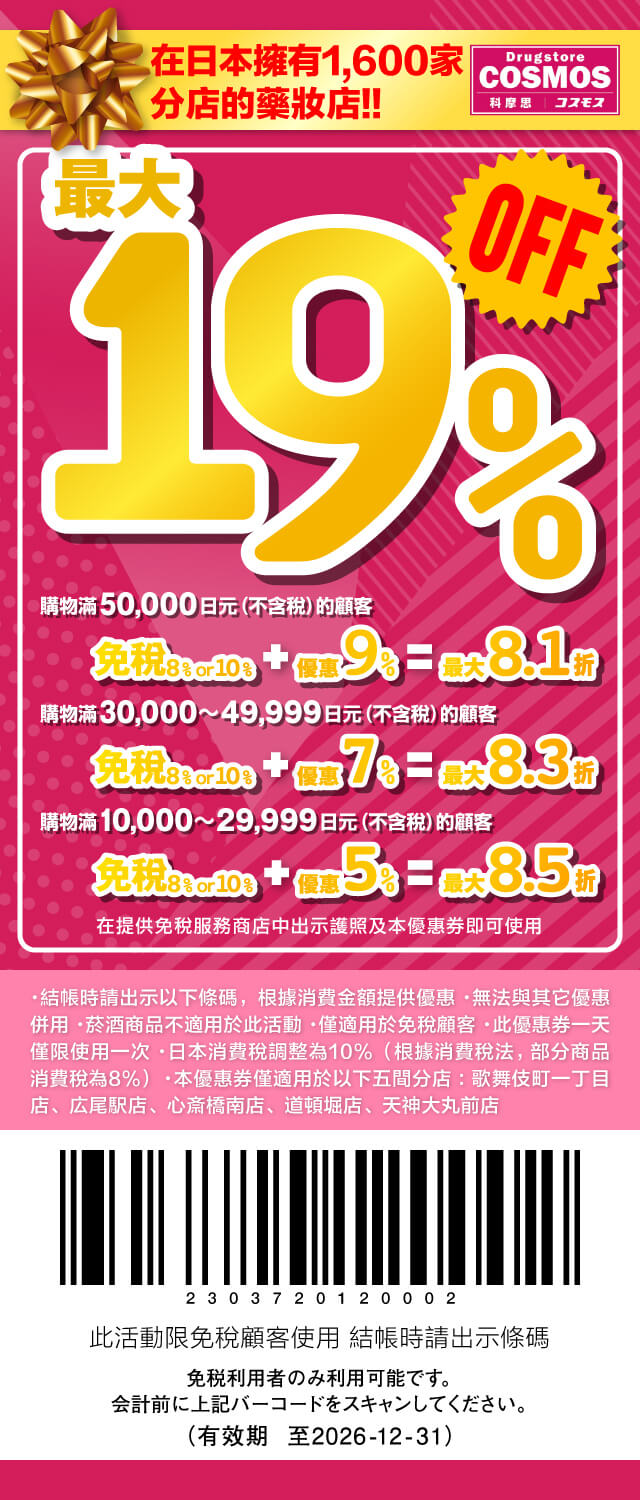
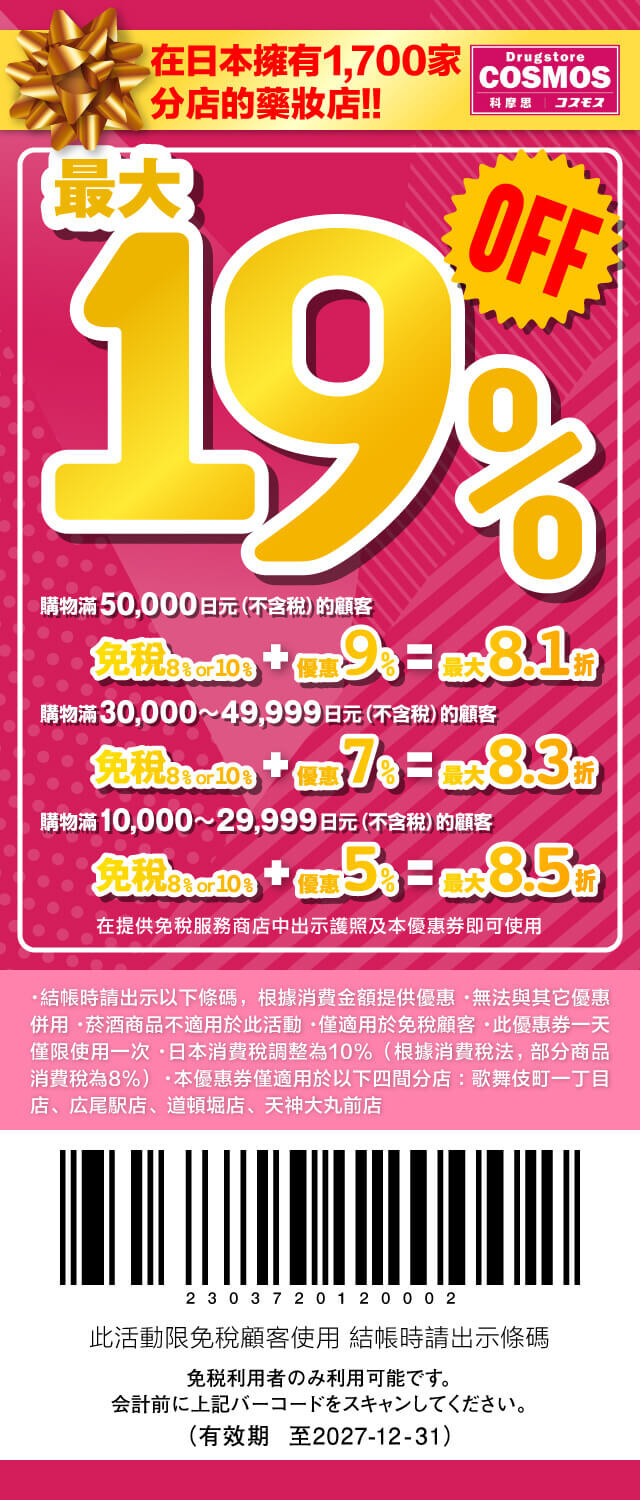
Coupon: refresh COSMOS/杏林堂/東武 coupons, add TSURUHA 西日本券
- COSMOS: new artwork (1,700 stores, 4 branches — 心斎橋南店 removed),
  deadline 2026/12/31 → 2027/12/31
- 杏林堂 SUPER DRUG STORE: new artwork raises the tiers from 3/5/7%
  to 4/6/8% (max 18% off), deadline 2026/05/31 → 2027/02/28
- 東武百貨 池袋店: renewed exchange ticket, deadline 2026/09/30 →
  2027/09/30 (TW + KR, the artwork is multilingual so KR reuses it)
- New: TSURUHA 鶴羽藥妝 西日本限定券 (Wants 廣島/山口, Wellness 島根/鳥取,
  九州鶴羽 長崎/佐賀/福岡), valid through 2027/03/31 — matches the
  app's id 47 entry, with its own landing page at /coupon/tsuruha_west/

diff --git a/coupon/tsuruha_west/index.html b/coupon/tsuruha_west/index.html
@@ -12,29 +12,29 @@
       gtag('config', 'G-VGPEQDL1RH');
     </script>
 
-    <link rel="canonical" href="https://junlando.com/coupon/cosmos/" />
-    <title>【COSMOS 科摩思藥妝店 優惠券】2026 日本最新折扣（免稅＋優惠）</title>
-    <meta name="description" content="COSMOS 科摩思藥妝店 最新優惠：滿1萬日圓免稅10%，最高再享91折(僅適用於四間分店，一天限用一次，詳見優惠券)。2026 日本購物旅遊必備折扣券，免稅再省一次。" />
-    <meta name="keywords" content="COSMOS 科摩思藥妝店 優惠券,COSMOS 科摩思藥妝店 折價券,COSMOS 科摩思藥妝店 日本折扣,COSMOS 科摩思藥妝店 coupon,日本優惠券,日本購物折扣" />
+    <link rel="canonical" href="https://junlando.com/coupon/tsuruha_west/" />
+    <title>【TSURUHA 鶴羽藥妝 西日本限定優惠券】2026 日本最新折扣（免稅＋優惠）</title>
+    <meta name="description" content="TSURUHA Drug 鶴羽藥妝 (長崎,佐賀,福岡限定) 最新優惠：Wants（廣島、山口）、Wellness（島根、鳥取）、九州鶴羽藥妝（長崎、佐賀、福岡）適用：滿1萬日圓免稅10%再97折，滿3萬日圓95折，滿5萬日圓93折。2026 日本購物旅遊必備折扣券，免稅再省一次。" />
+    <meta name="keywords" content="Wants 優惠券,Wellness 優惠券,鶴羽藥妝 九州 優惠券,TSURUHA 長崎 佐賀 福岡 優惠券,廣島 山口 藥妝折扣,島根 鳥取 藥妝折扣,日本優惠券,日本購物折扣" />
 
     <script type="application/ld+json">
 {
   "@context": "https://schema.org",
   "@type": "Product",
-  "name": "COSMOS 科摩思藥妝店 日本優惠券",
-  "description": "COSMOS 科摩思藥妝店 最新優惠：滿1萬日圓免稅10%，最高再享91折(僅適用於四間分店，一天限用一次，詳見優惠券)。2026 日本購物旅遊必備折扣券，免稅再省一次。",
-  "url": "https://junlando.com/coupon/cosmos/",
+  "name": "TSURUHA Drug 鶴羽藥妝 (長崎,佐賀,福岡限定) 日本優惠券",
+  "description": "TSURUHA Drug 鶴羽藥妝 (長崎,佐賀,福岡限定) 最新優惠：Wants（廣島、山口）、Wellness（島根、鳥取）、九州鶴羽藥妝（長崎、佐賀、福岡）適用：滿1萬日圓免稅10%再97折，滿3萬日圓95折，滿5萬日圓93折。2026 日本購物旅遊必備折扣券，免稅再省一次。",
+  "url": "https://junlando.com/coupon/tsuruha_west/",
   "brand": {
     "@type": "Brand",
-    "name": "COSMOS 科摩思藥妝店"
+    "name": "TSURUHA Drug 鶴羽藥妝 (長崎,佐賀,福岡限定)"
   },
   "offers": {
     "@type": "Offer",
     "price": "0",
     "priceCurrency": "JPY",
     "availability": "https://schema.org/InStock",
-    "validThrough": "2027-12-31",
-    "description": "81折"
+    "validThrough": "2027-03-31",
+    "description": "83折"
   }
 }
     </script>
@@ -308,14 +308,14 @@
     </header>
 
     <div class="coupon-container">
-        <img src="../coupon_images/cosmos.jpg" alt="COSMOS 科摩思藥妝店 優惠券 | 日本折扣" class="coupon-img" />
+        <img src="../coupon_images/bird-west.jpg" alt="TSURUHA 鶴羽藥妝 西日本限定優惠券（Wants、Wellness、九州鶴羽） | 日本折扣" class="coupon-img" />
     </div>
 
     <div class="hidden-seo">
-        <h1>COSMOS 科摩思藥妝店 優惠券｜滿1萬日圓免稅10%，最高再享91折(僅適用於四間分店，一天限用一次，詳見優惠券)</h1>
-        <p>滿1萬日圓免稅10%，最高再享91折(僅適用於四間分店，一天限用一次，詳見優惠券)</p>
-        <p>折扣資訊：81折</p>
-        <p>優惠截止：2027-12-31</p>
+        <h1>TSURUHA Drug 鶴羽藥妝 (長崎,佐賀,福岡限定) 優惠券｜Wants（廣島、山口）、Wellness（島根、鳥取）、九州鶴羽藥妝（長崎、佐賀、福岡）適用：滿1萬日圓免稅10%再97折，滿3萬日圓95折，滿5萬日圓93折</h1>
+        <p>Wants（廣島、山口）、Wellness（島根、鳥取）、九州鶴羽藥妝（長崎、佐賀、福岡）適用：滿1萬日圓免稅10%再97折，滿3萬日圓95折，滿5萬日圓93折</p>
+        <p>折扣資訊：83折</p>
+        <p>優惠截止：2027-03-31</p>
     </div>
     <script>
         (function(){

diff --git a/coupon/index.html b/coupon/index.html
@@ -1990,6 +1990,7 @@
         'aeon': 'aeon.png',
         'aeon_mall': 'aeon_mall.png',
         'tsuruha': 'tsuruha.png',
+        'tsuruha_west': 'tsuruha.png',
         'keio': 'keio.png',
         'sundrug': 'sundrug.jpeg',
         'tobu': 'tobu.png',
@@ -2102,6 +2103,8 @@
       // 如果 imageName 和檔名不一致，需要建立映射
       const storeImageMap = {
         'new1': 'new.webp',
+        // 西日本鶴羽（Wants／Wellness／九州鶴羽）跟本店共用同一張店卡底圖
+        'tsuruha_west': 'tsuruha.webp',
         // 其他大部分 imageName 直接對應到 {imageName}.webp
       };
       
@@ -2129,6 +2132,7 @@
       'cosmos': '2026 COSMOS 科摩思藥妝店 日本免稅優惠券 最高19%折扣 (免稅10%+9%折扣)',
       'cosmetics': '2026 COSMETICS AND MEDICAL 藥妝店 日本免稅優惠券 最高15%折扣',
       'tsuruha': '2026 TSURUHA 鶴羽藥妝 日本免稅優惠券 最高17%折扣 (10%免稅+7%折扣)',
+      'tsuruha_west': '2026 TSURUHA 鶴羽藥妝 西日本限定優惠券 最高17%折扣 - Wants、Wellness、九州鶴羽（長崎/佐賀/福岡）適用',
       'mitsui': '2026 三井集團 MITSUI OUTLET 日本免稅優惠券 最高10%折扣 + 免稅 10%',
       'aeon': '2026 AEON 永旺超市 日本免稅優惠券 95 折優惠 + 10%免稅',
       'aeon_mall': '2026 AEON MALL 永旺購物中心 500日圓購物券領取 - 日本大型購物商城',
@@ -2157,7 +2161,7 @@
       'meitetsu': '2026 名鐵百貨店 日本免稅優惠券 95 折 + 10%免稅 - 名古屋購物推薦',
       'aoki': '2026 AOKI 日本免稅優惠券 10%折扣 + 10%免稅 - 商務男裝西裝推薦',
       'orihica': '2026 ORIHICA 日本免稅優惠券 10%折扣 + 10%免稅 - 時尚商務服飾',
-      'superdrug': '2026 杏林堂藥局 日本免稅優惠券 最高 17% 折扣 (10%免稅+額外折扣) - 藥妝滿額優惠',
+      'superdrug': '2026 杏林堂藥局 日本免稅優惠券 最高 18% 折扣 (10%免稅+額外8%折扣) - 藥妝滿額優惠',
       'elevendrug': '2026 Drug Eleven 日本免稅優惠券 最高 17% 折扣 (10%免稅+額外折扣) - 藥妝滿額優惠',
       'nakagawa': '2026 中川政七商店 日本免稅優惠券 購物 95 折、免稅再打 9 折 - 日式雜貨選物'
     };
@@ -2207,7 +2211,7 @@
         // 折扣文案字數太長（例如「2000円 OFF」）會換行撐到下面的說明文字，字級縮小一點避免疊在一起
         const percentClass = discountText.length > 7 ? 'ticket-percent is-long' : 'ticket-percent';
         // 店名字數特別多的店家，縮小字級才塞得下；ANA 有手動換行分成乾淨兩行，字級可以大一點
-        const titleClass = coupon.imageName === 'mitsui' ? 'ticket-store-name is-very-long'
+        const titleClass = coupon.imageName === 'mitsui' || coupon.imageName === 'tsuruha_west' ? 'ticket-store-name is-very-long'
           : coupon.imageName === 'ana' ? 'ticket-store-name is-two-line'
           : 'ticket-store-name';
         // 卡片文字（店名、折扣、說明）改為真實 HTML 文字疊在底圖上，讓 Google 讀得到內容；

diff --git a/coupon/superdrug/index.html b/coupon/superdrug/index.html
@@ -14,7 +14,7 @@
 
     <link rel="canonical" href="https://junlando.com/coupon/superdrug/" />
     <title>【杏林堂藥局 優惠券】2026 日本最新折扣（免稅＋優惠）</title>
-    <meta name="description" content="杏林堂藥局 最新優惠：滿1萬日圓免稅10%再97折，滿3萬日圓95折，滿5萬日圓93折。2026 日本購物旅遊必備折扣券，免稅再省一次。" />
+    <meta name="description" content="杏林堂藥局 最新優惠：滿1萬日圓免稅10%再96折，滿3萬日圓94折，滿5萬日圓92折。2026 日本購物旅遊必備折扣券，免稅再省一次。" />
     <meta name="keywords" content="杏林堂藥局 優惠券,杏林堂藥局 折價券,杏林堂藥局 日本折扣,杏林堂藥局 coupon,日本優惠券,日本購物折扣" />
 
     <script type="application/ld+json">
@@ -22,7 +22,7 @@
   "@context": "https://schema.org",
   "@type": "Product",
   "name": "杏林堂藥局 日本優惠券",
-  "description": "杏林堂藥局 最新優惠：滿1萬日圓免稅10%再97折，滿3萬日圓95折，滿5萬日圓93折。2026 日本購物旅遊必備折扣券，免稅再省一次。",
+  "description": "杏林堂藥局 最新優惠：滿1萬日圓免稅10%再96折，滿3萬日圓94折，滿5萬日圓92折。2026 日本購物旅遊必備折扣券，免稅再省一次。",
   "url": "https://junlando.com/coupon/superdrug/",
   "brand": {
     "@type": "Brand",
@@ -33,8 +33,8 @@
     "price": "0",
     "priceCurrency": "JPY",
     "availability": "https://schema.org/InStock",
-    "validThrough": "2026-05-31",
-    "description": "83折"
+    "validThrough": "2027-02-28",
+    "description": "82折"
   }
 }
     </script>
@@ -312,10 +312,10 @@
     </div>
 
     <div class="hidden-seo">
-        <h1>杏林堂藥局 優惠券｜滿1萬日圓免稅10%再97折，滿3萬日圓95折，滿5萬日圓93折</h1>
-        <p>滿1萬日圓免稅10%再97折，滿3萬日圓95折，滿5萬日圓93折</p>
-        <p>折扣資訊：83折</p>
-        <p>優惠截止：2026-05-31</p>
+        <h1>杏林堂藥局 優惠券｜滿1萬日圓免稅10%再96折，滿3萬日圓94折，滿5萬日圓92折</h1>
+        <p>滿1萬日圓免稅10%再96折，滿3萬日圓94折，滿5萬日圓92折</p>
+        <p>折扣資訊：82折</p>
+        <p>優惠截止：2027-02-28</p>
     </div>
     <script>
         (function(){

diff --git a/coupon/kr/tobu/index.html b/coupon/kr/tobu/index.html
@@ -33,7 +33,7 @@
     "price": "0",
     "priceCurrency": "JPY",
     "availability": "https://schema.org/InStock",
-    "validThrough": "2026-09-30",
+    "validThrough": "2027-09-30",
     "description": "최대 혜택"
   }
 }
@@ -316,7 +316,7 @@
         <h1>도부 백화점 이케부쿠로점 쿠폰｜단가 1,000엔 이상 상품은 5% 할인 (실물 쿠폰 필요, 결제 제한 있음)</h1>
         <p>단가 1,000엔 이상 상품은 5% 할인 (실물 쿠폰 필요, 결제 제한 있음)</p>
         <p>할인 정보: 최대 혜택</p>
-        <p>할인 마감: 2026-09-30</p>
+        <p>할인 마감: 2027-09-30</p>
     </div>
     <script>
         (function(){

diff --git a/coupon/tobu/index.html b/coupon/tobu/index.html
@@ -33,7 +33,7 @@
     "price": "0",
     "priceCurrency": "JPY",
     "availability": "https://schema.org/InStock",
-    "validThrough": "2026-09-30",
+    "validThrough": "2027-09-30",
     "description": "95折"
   }
 }
@@ -315,7 +315,7 @@
         <h1>東武百貨店 池袋店 優惠券｜單價1,000日圓以上商品享 95 折 (需兌換實體券，支付限制請參閱優惠券)</h1>
         <p>單價1,000日圓以上商品享 95 折 (需兌換實體券，支付限制請參閱優惠券)</p>
         <p>折扣資訊：95折</p>
-        <p>優惠截止：2026-09-30</p>
+        <p>優惠截止：2027-09-30</p>
     </div>
     <script>
         (function(){
